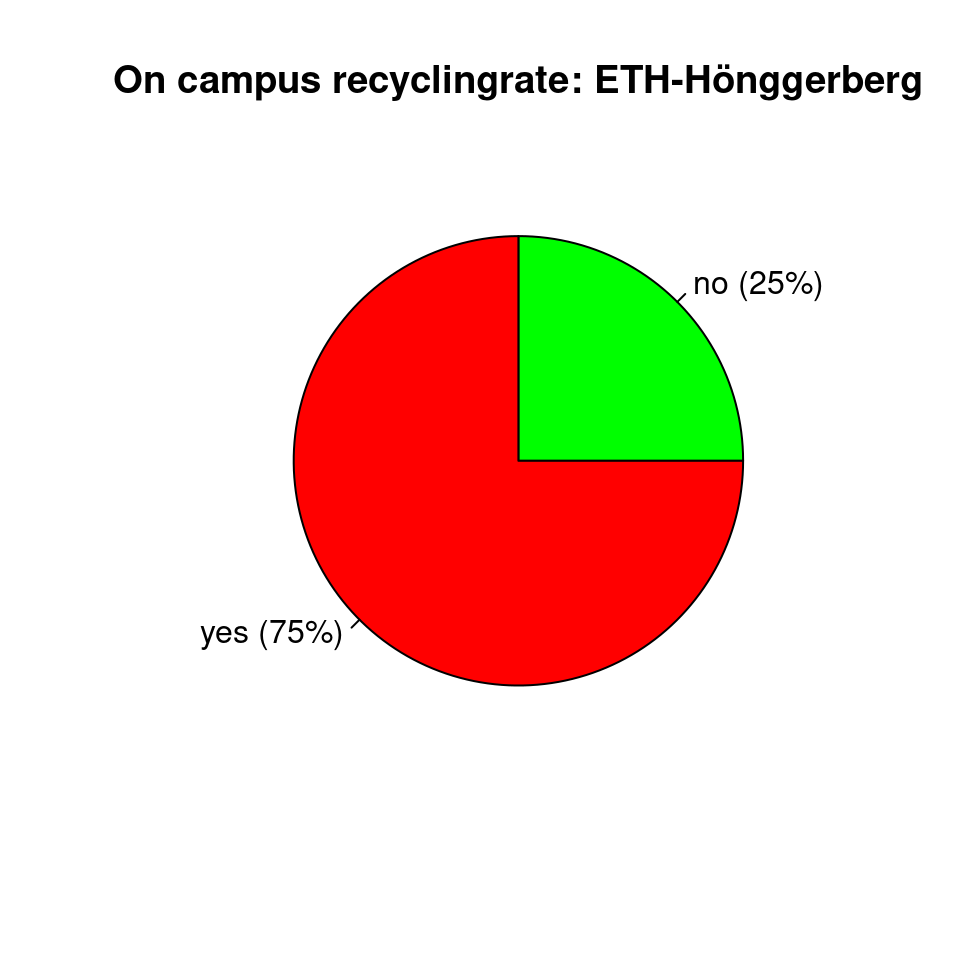
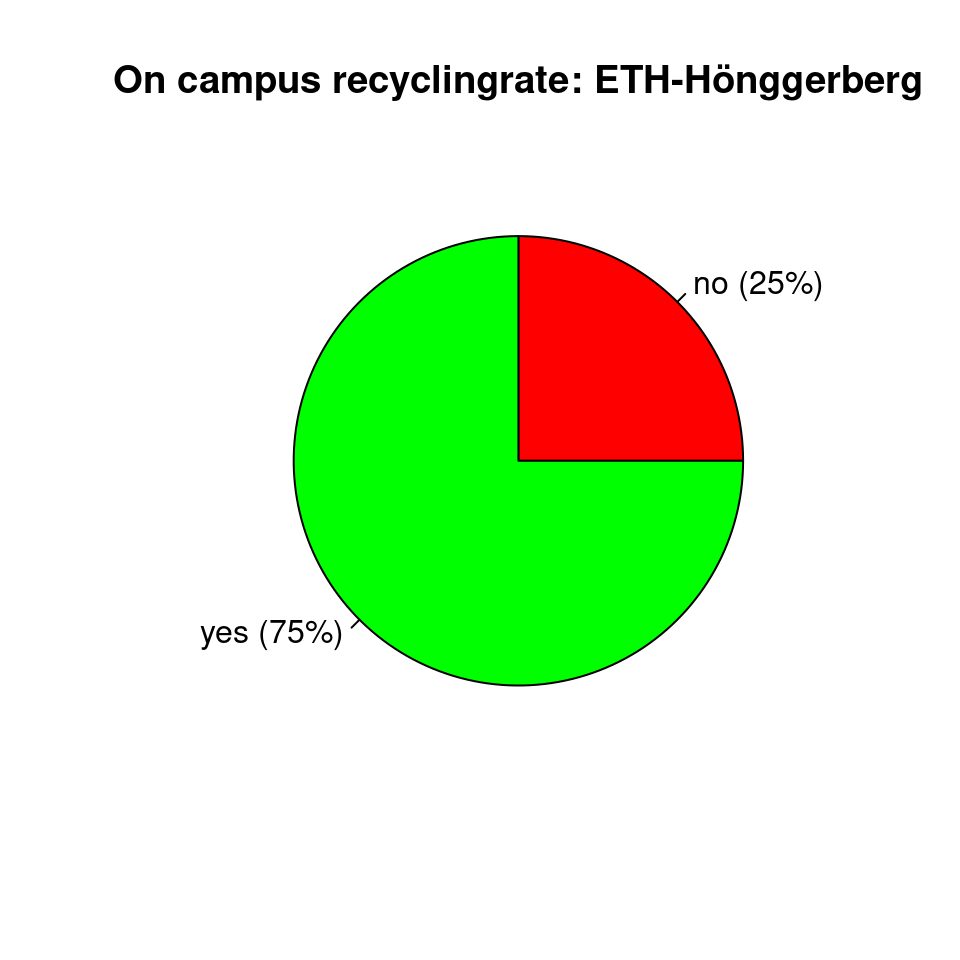
final version

Changed region(s): [[0.2812, 0.25, 0.7812, 0.7188]]

diff --git a/index.html b/index.html
@@ -145,39 +145,22 @@ div.csl-indent {
 </header>
 
 
-<div class="cell">
-<div class="sourceCode cell-code" id="cb1"><pre class="sourceCode r code-with-copy"><code class="sourceCode r"><span id="cb1-1"><a href="#cb1-1" aria-hidden="true" tabindex="-1"></a><span class="fu">library</span>(tidyverse)</span></code><button title="Copy to Clipboard" class="code-copy-button"><i class="bi"></i></button></pre></div>
-<div class="cell-output cell-output-stderr">
-<pre><code>── Attaching core tidyverse packages ──────────────────────── tidyverse 2.0.0 ──
-✔ dplyr     1.1.4     ✔ readr     2.1.5
-✔ forcats   1.0.0     ✔ stringr   1.5.1
-✔ ggplot2   3.4.4     ✔ tibble    3.2.1
-✔ lubridate 1.9.3     ✔ tidyr     1.3.1
-✔ purrr     1.0.2     
-── Conflicts ────────────────────────────────────────── tidyverse_conflicts() ──
-✖ dplyr::filter() masks stats::filter()
-✖ dplyr::lag()    masks stats::lag()
-ℹ Use the conflicted package (&lt;http://conflicted.r-lib.org/&gt;) to force all conflicts to become errors</code></pre>
-</div>
-<div class="sourceCode cell-code" id="cb3"><pre class="sourceCode r code-with-copy"><code class="sourceCode r"><span id="cb3-1"><a href="#cb3-1" aria-hidden="true" tabindex="-1"></a><span class="fu">library</span>(dplyr)</span>
-<span id="cb3-2"><a href="#cb3-2" aria-hidden="true" tabindex="-1"></a><span class="fu">library</span>(gt)</span>
-<span id="cb3-3"><a href="#cb3-3" aria-hidden="true" tabindex="-1"></a><span class="fu">library</span>(ggthemes)</span></code><button title="Copy to Clipboard" class="code-copy-button"><i class="bi"></i></button></pre></div>
-</div>
 <section id="introduction" class="level1">
 <h1>Introduction</h1>
-<p>Switzerland is one of the leading country in terms of waste per capita with an high waste of over 700kg per capita. Despite this big waste production the recyclingrate increased sevenfold over the past 50 years <span class="citation" data-cites="misicka2020how">(<a href="#ref-misicka2020how" role="doc-biblioref">Misicka, 2020</a>)</span></p>
+<p>Switzerland is one of the leading country in terms of waste per capita with a high waste of over 700kg per capita. Despite this big waste production the recyclingrate increased sevenfold over the past 50 years <span class="citation" data-cites="misicka2020how">(<a href="#ref-misicka2020how" role="doc-biblioref">Misicka, 2020</a>)</span></p>
 <p>This study aims to get insights of the recycling behavior of peoples visiting the ETH-campuses. By understanding the extent to which visitors utilize the provided recycling infrastructure and how satisfied they are with the existing infrastructure, we can identify potential areas for improvement. Furthermore, the study seeks to uncover the types of materials commonly recycled on campus, providing valuable insights into the recycling habits and preferences of the campus community.</p>
 </section>
 <section id="methods" class="level1">
 <h1>Methods</h1>
-<p>The data was collected through a Google Forms questionnaire distributed to students. The questionnaire was designed to gather relevant information and was shared with the target student population. The participants were firstly asked of the campus they visited the most and after that got more questions about the beforehand chosen campus. The collected data was then exported from Google Forms for further analysis and processing.</p>
+<p>The data was collected through a Google Forms questionnaire distributed to students. The questionnaire was designed to gather relevant information and was shared with the target student population. The participants were firstly asked of the campus they visit the most and after that got more questions about the beforehand chosen campus. The collected data was then exported from Google Forms for further analysis and processing.</p>
 </section>
 <section id="results" class="level1">
 <h1>Results</h1>
 <p>There was a total of 17 participants in the survey, from which 13 visit mainly the Zentrum campus and 4 visitting the Hönggerberg campus.</p>
+<p>In the following chapters the results of the main questions are described.</p>
 <section id="do-people-recycle-on-campus" class="level2">
 <h2 class="anchored" data-anchor-id="do-people-recycle-on-campus">Do people recycle on campus?</h2>
-<p>The percentage of participants that recycles on campus is high as seen in <a href="#fig-zentrum" class="quarto-xref">Figure&nbsp;1</a> for the ETH-Zentrum campus and in <a href="#fig-hönggerberg" class="quarto-xref">Figure&nbsp;2</a> the ETH-Hönggerberg campus.</p>
+<p>The percentage of participants that recycles on campus is high as seen in <a href="#fig-zentrum" class="quarto-xref">Figure&nbsp;1</a> for the ETH-Zentrum campus and in <a href="#fig-hönggerberg" class="quarto-xref">Figure&nbsp;2</a> for the ETH-Hönggerberg campus.</p>
 <p>The contribution on recycling is slightly higher on the Zentrum-campus.</p>
 <p>The participants who dont recycle were also asked what hinders them on recycling on campus and they given the following statements:</p>
 <ul>
@@ -185,26 +168,26 @@ div.csl-indent {
 <ul>
 <li><p>I only prepare my own food and do not buy a lot of stuff.</p></li>
 <li><p>Bad availability in rooms</p></li>
-</ul></li>
-<li><p>ETH-Hönggerberg:</p>
+</ul>
+<p>ETH-Hönggerberg:</p>
 <ul>
 <li>no statement</li>
 </ul></li>
 </ul>
 <div class="cell">
-<div class="sourceCode cell-code" id="cb4"><pre class="sourceCode r code-with-copy"><code class="sourceCode r"><span id="cb4-1"><a href="#cb4-1" aria-hidden="true" tabindex="-1"></a>survey_processed <span class="ot">&lt;-</span> <span class="fu">read.csv</span>(<span class="st">"data/processed/survey_processed.csv"</span>)</span>
-<span id="cb4-2"><a href="#cb4-2" aria-hidden="true" tabindex="-1"></a></span>
-<span id="cb4-3"><a href="#cb4-3" aria-hidden="true" tabindex="-1"></a>counts_eth_zentrum <span class="ot">&lt;-</span> <span class="fu">table</span>(survey_processed<span class="sc">$</span>recycling_ETH_Zentrum)</span>
-<span id="cb4-4"><a href="#cb4-4" aria-hidden="true" tabindex="-1"></a>percentages_eth_zentrum <span class="ot">&lt;-</span> <span class="fu">round</span>(counts_eth_zentrum<span class="sc">/</span><span class="fu">sum</span>(counts_eth_zentrum)<span class="sc">*</span><span class="dv">100</span>, <span class="dv">1</span>)</span>
-<span id="cb4-5"><a href="#cb4-5" aria-hidden="true" tabindex="-1"></a></span>
-<span id="cb4-6"><a href="#cb4-6" aria-hidden="true" tabindex="-1"></a>counts_eth_hönggerberg <span class="ot">&lt;-</span> <span class="fu">table</span>(survey_processed<span class="sc">$</span>recycling_ETH_Hönggerberg)</span>
-<span id="cb4-7"><a href="#cb4-7" aria-hidden="true" tabindex="-1"></a>percentages_eth_hönggerberg <span class="ot">&lt;-</span> <span class="fu">round</span>(counts_eth_hönggerberg<span class="sc">/</span><span class="fu">sum</span>(counts_eth_hönggerberg)<span class="sc">*</span><span class="dv">100</span>, <span class="dv">1</span>)</span></code><button title="Copy to Clipboard" class="code-copy-button"><i class="bi"></i></button></pre></div>
+<div class="sourceCode cell-code" id="cb1"><pre class="sourceCode r code-with-copy"><code class="sourceCode r"><span id="cb1-1"><a href="#cb1-1" aria-hidden="true" tabindex="-1"></a>survey_processed <span class="ot">&lt;-</span> <span class="fu">read.csv</span>(<span class="st">"data/processed/survey_processed.csv"</span>)</span>
+<span id="cb1-2"><a href="#cb1-2" aria-hidden="true" tabindex="-1"></a></span>
+<span id="cb1-3"><a href="#cb1-3" aria-hidden="true" tabindex="-1"></a>counts_eth_zentrum <span class="ot">&lt;-</span> <span class="fu">table</span>(survey_processed<span class="sc">$</span>recycling_ETH_Zentrum)</span>
+<span id="cb1-4"><a href="#cb1-4" aria-hidden="true" tabindex="-1"></a>percentages_eth_zentrum <span class="ot">&lt;-</span> <span class="fu">round</span>(counts_eth_zentrum<span class="sc">/</span><span class="fu">sum</span>(counts_eth_zentrum)<span class="sc">*</span><span class="dv">100</span>, <span class="dv">1</span>)</span>
+<span id="cb1-5"><a href="#cb1-5" aria-hidden="true" tabindex="-1"></a></span>
+<span id="cb1-6"><a href="#cb1-6" aria-hidden="true" tabindex="-1"></a>counts_eth_hönggerberg <span class="ot">&lt;-</span> <span class="fu">table</span>(survey_processed<span class="sc">$</span>recycling_ETH_Hönggerberg)</span>
+<span id="cb1-7"><a href="#cb1-7" aria-hidden="true" tabindex="-1"></a>percentages_eth_hönggerberg <span class="ot">&lt;-</span> <span class="fu">round</span>(counts_eth_hönggerberg<span class="sc">/</span><span class="fu">sum</span>(counts_eth_hönggerberg)<span class="sc">*</span><span class="dv">100</span>, <span class="dv">1</span>)</span></code><button title="Copy to Clipboard" class="code-copy-button"><i class="bi"></i></button></pre></div>
 </div>
 <div class="cell">
-<div class="sourceCode cell-code" id="cb5"><pre class="sourceCode r code-with-copy"><code class="sourceCode r"><span id="cb5-1"><a href="#cb5-1" aria-hidden="true" tabindex="-1"></a>recyclingrate_eth_zentrum <span class="ot">&lt;-</span> <span class="fu">pie</span>(counts_eth_zentrum, </span>
-<span id="cb5-2"><a href="#cb5-2" aria-hidden="true" tabindex="-1"></a>    <span class="at">labels =</span> <span class="fu">paste0</span>(<span class="fu">names</span>(counts_eth_zentrum), <span class="st">" ("</span>, percentages_eth_zentrum, <span class="st">"%)"</span>),</span>
-<span id="cb5-3"><a href="#cb5-3" aria-hidden="true" tabindex="-1"></a>    <span class="at">col =</span> <span class="fu">c</span>(<span class="st">"green"</span>, <span class="st">"red"</span>),</span>
-<span id="cb5-4"><a href="#cb5-4" aria-hidden="true" tabindex="-1"></a>    <span class="at">main =</span> <span class="st">"On campus recyclingrate: ETH-Zentrum"</span>)</span></code><button title="Copy to Clipboard" class="code-copy-button"><i class="bi"></i></button></pre></div>
+<div class="sourceCode cell-code" id="cb2"><pre class="sourceCode r code-with-copy"><code class="sourceCode r"><span id="cb2-1"><a href="#cb2-1" aria-hidden="true" tabindex="-1"></a>recyclingrate_eth_zentrum <span class="ot">&lt;-</span> <span class="fu">pie</span>(counts_eth_zentrum, </span>
+<span id="cb2-2"><a href="#cb2-2" aria-hidden="true" tabindex="-1"></a>    <span class="at">labels =</span> <span class="fu">paste0</span>(<span class="fu">names</span>(counts_eth_zentrum), <span class="st">" ("</span>, percentages_eth_zentrum, <span class="st">"%)"</span>),</span>
+<span id="cb2-3"><a href="#cb2-3" aria-hidden="true" tabindex="-1"></a>    <span class="at">col =</span> <span class="fu">c</span>(<span class="st">"red"</span>, <span class="st">"green"</span>),</span>
+<span id="cb2-4"><a href="#cb2-4" aria-hidden="true" tabindex="-1"></a>    <span class="at">main =</span> <span class="st">"On campus recyclingrate: ETH-Zentrum"</span>)</span></code><button title="Copy to Clipboard" class="code-copy-button"><i class="bi"></i></button></pre></div>
 <div class="cell-output-display">
 <div id="fig-zentrum" class="quarto-figure quarto-figure-center quarto-float anchored">
 <figure class="quarto-float quarto-float-fig figure">
@@ -219,10 +202,10 @@ Figure&nbsp;1: Percentage of people recycling on the ETH-Zentrum campus
 </div>
 </div>
 <div class="cell">
-<div class="sourceCode cell-code" id="cb6"><pre class="sourceCode r code-with-copy"><code class="sourceCode r"><span id="cb6-1"><a href="#cb6-1" aria-hidden="true" tabindex="-1"></a>recyclingrate_eth_hönggerberg <span class="ot">&lt;-</span> <span class="fu">pie</span>(counts_eth_hönggerberg, </span>
-<span id="cb6-2"><a href="#cb6-2" aria-hidden="true" tabindex="-1"></a>    <span class="at">labels =</span> <span class="fu">paste0</span>(<span class="fu">names</span>(counts_eth_hönggerberg), <span class="st">" ("</span>, percentages_eth_hönggerberg, <span class="st">"%)"</span>),</span>
-<span id="cb6-3"><a href="#cb6-3" aria-hidden="true" tabindex="-1"></a>    <span class="at">col =</span> <span class="fu">c</span>(<span class="st">"green"</span>, <span class="st">"red"</span>),</span>
-<span id="cb6-4"><a href="#cb6-4" aria-hidden="true" tabindex="-1"></a>    <span class="at">main =</span> <span class="st">"On campus recyclingrate: ETH-Hönggerberg"</span>) </span></code><button title="Copy to Clipboard" class="code-copy-button"><i class="bi"></i></button></pre></div>
+<div class="sourceCode cell-code" id="cb3"><pre class="sourceCode r code-with-copy"><code class="sourceCode r"><span id="cb3-1"><a href="#cb3-1" aria-hidden="true" tabindex="-1"></a>recyclingrate_eth_hönggerberg <span class="ot">&lt;-</span> <span class="fu">pie</span>(counts_eth_hönggerberg, </span>
+<span id="cb3-2"><a href="#cb3-2" aria-hidden="true" tabindex="-1"></a>    <span class="at">labels =</span> <span class="fu">paste0</span>(<span class="fu">names</span>(counts_eth_hönggerberg), <span class="st">" ("</span>, percentages_eth_hönggerberg, <span class="st">"%)"</span>),</span>
+<span id="cb3-3"><a href="#cb3-3" aria-hidden="true" tabindex="-1"></a>    <span class="at">col =</span> <span class="fu">c</span>(<span class="st">"red"</span>, <span class="st">"green"</span>),</span>
+<span id="cb3-4"><a href="#cb3-4" aria-hidden="true" tabindex="-1"></a>    <span class="at">main =</span> <span class="st">"On campus recyclingrate: ETH-Hönggerberg"</span>) </span></code><button title="Copy to Clipboard" class="code-copy-button"><i class="bi"></i></button></pre></div>
 <div class="cell-output-display">
 <div id="fig-hönggerberg" class="quarto-figure quarto-figure-center quarto-float anchored">
 <figure class="quarto-float quarto-float-fig figure">
@@ -241,13 +224,13 @@ Figure&nbsp;2: Percentage of people recycling on the ETH-Hönggerberg campus
 <h2 class="anchored" data-anchor-id="what-do-they-recycle">What do they recycle?</h2>
 <p>The participants recycle various materials on campus, namely PET, cardboard, paper, glass, and aluminum. In <a href="#fig-material" class="quarto-xref">Figure&nbsp;3</a> one can see the most used recycled material which is ALU.</p>
 <div class="cell">
-<div class="sourceCode cell-code" id="cb7"><pre class="sourceCode r code-with-copy"><code class="sourceCode r"><span id="cb7-1"><a href="#cb7-1" aria-hidden="true" tabindex="-1"></a>most_recycled_Zentrum <span class="ot">&lt;-</span> <span class="fu">read.csv</span>(<span class="st">"data/processed/most_recycled_Zentrum"</span>)</span>
-<span id="cb7-2"><a href="#cb7-2" aria-hidden="true" tabindex="-1"></a></span>
-<span id="cb7-3"><a href="#cb7-3" aria-hidden="true" tabindex="-1"></a> <span class="fu">ggplot</span>(<span class="at">data =</span> most_recycled_Zentrum,</span>
-<span id="cb7-4"><a href="#cb7-4" aria-hidden="true" tabindex="-1"></a>       <span class="at">mapping =</span> <span class="fu">aes</span>(<span class="at">x =</span> most_recycled_material_ETH_Zentrum)) <span class="sc">+</span></span>
-<span id="cb7-5"><a href="#cb7-5" aria-hidden="true" tabindex="-1"></a>  <span class="fu">geom_bar</span>() <span class="sc">+</span></span>
-<span id="cb7-6"><a href="#cb7-6" aria-hidden="true" tabindex="-1"></a>   <span class="fu">labs</span>(<span class="at">title=</span> <span class="st">"What material is mostly recycled on the ETH-Zentrum campus?"</span>, <span class="at">x =</span> <span class="st">"material"</span>, <span class="at">y =</span> <span class="st">"count"</span>) <span class="sc">+</span></span>
-<span id="cb7-7"><a href="#cb7-7" aria-hidden="true" tabindex="-1"></a>  <span class="fu">scale_color_colorblind</span>()</span></code><button title="Copy to Clipboard" class="code-copy-button"><i class="bi"></i></button></pre></div>
+<div class="sourceCode cell-code" id="cb4"><pre class="sourceCode r code-with-copy"><code class="sourceCode r"><span id="cb4-1"><a href="#cb4-1" aria-hidden="true" tabindex="-1"></a>most_recycled_Zentrum <span class="ot">&lt;-</span> <span class="fu">read.csv</span>(<span class="st">"data/processed/most_recycled_Zentrum"</span>)</span>
+<span id="cb4-2"><a href="#cb4-2" aria-hidden="true" tabindex="-1"></a></span>
+<span id="cb4-3"><a href="#cb4-3" aria-hidden="true" tabindex="-1"></a> <span class="fu">ggplot</span>(<span class="at">data =</span> most_recycled_Zentrum,</span>
+<span id="cb4-4"><a href="#cb4-4" aria-hidden="true" tabindex="-1"></a>       <span class="at">mapping =</span> <span class="fu">aes</span>(<span class="at">x =</span> most_recycled_material_ETH_Zentrum)) <span class="sc">+</span></span>
+<span id="cb4-5"><a href="#cb4-5" aria-hidden="true" tabindex="-1"></a>  <span class="fu">geom_bar</span>() <span class="sc">+</span></span>
+<span id="cb4-6"><a href="#cb4-6" aria-hidden="true" tabindex="-1"></a>   <span class="fu">labs</span>(<span class="at">title=</span> <span class="st">"What material is mostly recycled on the ETH-Zentrum campus?"</span>, <span class="at">x =</span> <span class="st">"material"</span>, <span class="at">y =</span> <span class="st">"count"</span>) <span class="sc">+</span></span>
+<span id="cb4-7"><a href="#cb4-7" aria-hidden="true" tabindex="-1"></a>  <span class="fu">scale_color_colorblind</span>()</span></code><button title="Copy to Clipboard" class="code-copy-button"><i class="bi"></i></button></pre></div>
 <div class="cell-output-display">
 <div id="fig-material" class="quarto-figure quarto-figure-center quarto-float anchored">
 <figure class="quarto-float quarto-float-fig figure">
@@ -264,33 +247,33 @@ Figure&nbsp;3: most recycled materials on the ETH-Zentrum campus
 </section>
 <section id="how-happy-are-the-people-on-campus-about-the-given-infrastructure" class="level2">
 <h2 class="anchored" data-anchor-id="how-happy-are-the-people-on-campus-about-the-given-infrastructure">How happy are the people on campus about the given infrastructure?</h2>
-<p>In the end of the survey the participants were asked to give a rating from 1-10 on how happy they are with the given infrastructure. As seen in <a href="#tbl-satisfaction" class="quarto-xref">Table&nbsp;1</a> the participants are quite happy with the given infrastructure. The infrastructure on Höngerberg was rated a bit higher but also had not to much participants for a reliable conclusion.</p>
+<p>In the end of the survey the participants were asked to give a rating from 1-10 on how happy they are with the given infrastructure. As seen in <a href="#tbl-satisfaction" class="quarto-xref">Table&nbsp;1</a> the participants are quite happy with the given infrastructure. The infrastructure on Hönggerberg was rated a bit higher but also had not to much participants for a reliable conclusion.</p>
 <div class="cell">
-<div class="sourceCode cell-code" id="cb8"><pre class="sourceCode r code-with-copy"><code class="sourceCode r"><span id="cb8-1"><a href="#cb8-1" aria-hidden="true" tabindex="-1"></a>survey_processed <span class="ot">&lt;-</span> <span class="fu">read.csv</span>(<span class="st">"data/processed/survey_processed.csv"</span>)</span>
-<span id="cb8-2"><a href="#cb8-2" aria-hidden="true" tabindex="-1"></a></span>
-<span id="cb8-3"><a href="#cb8-3" aria-hidden="true" tabindex="-1"></a>mean_satisfaction_zentrum <span class="ot">&lt;-</span>survey_processed <span class="sc">|&gt;</span> </span>
-<span id="cb8-4"><a href="#cb8-4" aria-hidden="true" tabindex="-1"></a>  <span class="fu">filter</span>(<span class="sc">!</span><span class="fu">is.na</span>(satisfaction_ETH_Zentrum))  <span class="sc">|&gt;</span> </span>
-<span id="cb8-5"><a href="#cb8-5" aria-hidden="true" tabindex="-1"></a>    <span class="fu">group_by</span>(campus) <span class="sc">|&gt;</span> </span>
-<span id="cb8-6"><a href="#cb8-6" aria-hidden="true" tabindex="-1"></a>    <span class="fu">summarise</span>(</span>
-<span id="cb8-7"><a href="#cb8-7" aria-hidden="true" tabindex="-1"></a>        <span class="at">count =</span> <span class="fu">n</span>(),</span>
-<span id="cb8-8"><a href="#cb8-8" aria-hidden="true" tabindex="-1"></a>        <span class="at">mean =</span> <span class="fu">mean</span>(satisfaction_ETH_Zentrum)</span>
-<span id="cb8-9"><a href="#cb8-9" aria-hidden="true" tabindex="-1"></a>        )</span>
-<span id="cb8-10"><a href="#cb8-10" aria-hidden="true" tabindex="-1"></a>       </span>
-<span id="cb8-11"><a href="#cb8-11" aria-hidden="true" tabindex="-1"></a>mean_satisfaction_hönggerberg <span class="ot">&lt;-</span>survey_processed <span class="sc">|&gt;</span> </span>
-<span id="cb8-12"><a href="#cb8-12" aria-hidden="true" tabindex="-1"></a>  <span class="fu">filter</span>(<span class="sc">!</span><span class="fu">is.na</span>(satisfaction_ETH_Hönggerberg))  <span class="sc">|&gt;</span> </span>
-<span id="cb8-13"><a href="#cb8-13" aria-hidden="true" tabindex="-1"></a>    <span class="fu">group_by</span>(campus) <span class="sc">|&gt;</span> </span>
-<span id="cb8-14"><a href="#cb8-14" aria-hidden="true" tabindex="-1"></a>    <span class="fu">summarise</span>(</span>
-<span id="cb8-15"><a href="#cb8-15" aria-hidden="true" tabindex="-1"></a>        <span class="at">count =</span> <span class="fu">n</span>(),</span>
-<span id="cb8-16"><a href="#cb8-16" aria-hidden="true" tabindex="-1"></a>        <span class="at">mean =</span> <span class="fu">mean</span>(satisfaction_ETH_Hönggerberg)</span>
-<span id="cb8-17"><a href="#cb8-17" aria-hidden="true" tabindex="-1"></a>        )</span>
-<span id="cb8-18"><a href="#cb8-18" aria-hidden="true" tabindex="-1"></a></span>
-<span id="cb8-19"><a href="#cb8-19" aria-hidden="true" tabindex="-1"></a></span>
-<span id="cb8-20"><a href="#cb8-20" aria-hidden="true" tabindex="-1"></a>satisfaction <span class="ot">&lt;-</span> <span class="fu">bind_rows</span>(mean_satisfaction_hönggerberg,mean_satisfaction_zentrum)</span>
-<span id="cb8-21"><a href="#cb8-21" aria-hidden="true" tabindex="-1"></a></span>
-<span id="cb8-22"><a href="#cb8-22" aria-hidden="true" tabindex="-1"></a></span>
-<span id="cb8-23"><a href="#cb8-23" aria-hidden="true" tabindex="-1"></a>satisfaction <span class="sc">|&gt;</span> </span>
-<span id="cb8-24"><a href="#cb8-24" aria-hidden="true" tabindex="-1"></a>knitr<span class="sc">::</span><span class="fu">kable</span>(<span class="at">digits =</span> <span class="dv">0</span>)</span>
-<span id="cb8-25"><a href="#cb8-25" aria-hidden="true" tabindex="-1"></a><span class="fu">write_csv</span>(satisfaction, <span class="st">"data/final/tbl-satisfaction"</span>)</span></code><button title="Copy to Clipboard" class="code-copy-button"><i class="bi"></i></button></pre></div>
+<div class="sourceCode cell-code" id="cb5"><pre class="sourceCode r code-with-copy"><code class="sourceCode r"><span id="cb5-1"><a href="#cb5-1" aria-hidden="true" tabindex="-1"></a>survey_processed <span class="ot">&lt;-</span> <span class="fu">read.csv</span>(<span class="st">"data/processed/survey_processed.csv"</span>)</span>
+<span id="cb5-2"><a href="#cb5-2" aria-hidden="true" tabindex="-1"></a></span>
+<span id="cb5-3"><a href="#cb5-3" aria-hidden="true" tabindex="-1"></a>mean_satisfaction_zentrum <span class="ot">&lt;-</span>survey_processed <span class="sc">|&gt;</span> </span>
+<span id="cb5-4"><a href="#cb5-4" aria-hidden="true" tabindex="-1"></a>  <span class="fu">filter</span>(<span class="sc">!</span><span class="fu">is.na</span>(satisfaction_ETH_Zentrum))  <span class="sc">|&gt;</span> </span>
+<span id="cb5-5"><a href="#cb5-5" aria-hidden="true" tabindex="-1"></a>    <span class="fu">group_by</span>(campus) <span class="sc">|&gt;</span> </span>
+<span id="cb5-6"><a href="#cb5-6" aria-hidden="true" tabindex="-1"></a>    <span class="fu">summarise</span>(</span>
+<span id="cb5-7"><a href="#cb5-7" aria-hidden="true" tabindex="-1"></a>        <span class="at">count=</span> <span class="fu">n</span>(),</span>
+<span id="cb5-8"><a href="#cb5-8" aria-hidden="true" tabindex="-1"></a>        <span class="at">mean =</span> <span class="fu">mean</span>(satisfaction_ETH_Zentrum)</span>
+<span id="cb5-9"><a href="#cb5-9" aria-hidden="true" tabindex="-1"></a>        )</span>
+<span id="cb5-10"><a href="#cb5-10" aria-hidden="true" tabindex="-1"></a>       </span>
+<span id="cb5-11"><a href="#cb5-11" aria-hidden="true" tabindex="-1"></a>mean_satisfaction_hönggerberg <span class="ot">&lt;-</span>survey_processed <span class="sc">|&gt;</span> </span>
+<span id="cb5-12"><a href="#cb5-12" aria-hidden="true" tabindex="-1"></a>  <span class="fu">filter</span>(<span class="sc">!</span><span class="fu">is.na</span>(satisfaction_ETH_Hönggerberg))  <span class="sc">|&gt;</span> </span>
+<span id="cb5-13"><a href="#cb5-13" aria-hidden="true" tabindex="-1"></a>    <span class="fu">group_by</span>(campus) <span class="sc">|&gt;</span> </span>
+<span id="cb5-14"><a href="#cb5-14" aria-hidden="true" tabindex="-1"></a>    <span class="fu">summarise</span>(</span>
+<span id="cb5-15"><a href="#cb5-15" aria-hidden="true" tabindex="-1"></a>        <span class="at">count =</span> <span class="fu">n</span>(),</span>
+<span id="cb5-16"><a href="#cb5-16" aria-hidden="true" tabindex="-1"></a>        <span class="at">mean =</span> <span class="fu">mean</span>(satisfaction_ETH_Hönggerberg)</span>
+<span id="cb5-17"><a href="#cb5-17" aria-hidden="true" tabindex="-1"></a>        )</span>
+<span id="cb5-18"><a href="#cb5-18" aria-hidden="true" tabindex="-1"></a></span>
+<span id="cb5-19"><a href="#cb5-19" aria-hidden="true" tabindex="-1"></a></span>
+<span id="cb5-20"><a href="#cb5-20" aria-hidden="true" tabindex="-1"></a>satisfaction <span class="ot">&lt;-</span> <span class="fu">bind_rows</span>(mean_satisfaction_hönggerberg,mean_satisfaction_zentrum)</span>
+<span id="cb5-21"><a href="#cb5-21" aria-hidden="true" tabindex="-1"></a></span>
+<span id="cb5-22"><a href="#cb5-22" aria-hidden="true" tabindex="-1"></a></span>
+<span id="cb5-23"><a href="#cb5-23" aria-hidden="true" tabindex="-1"></a>satisfaction <span class="sc">|&gt;</span> </span>
+<span id="cb5-24"><a href="#cb5-24" aria-hidden="true" tabindex="-1"></a>knitr<span class="sc">::</span><span class="fu">kable</span>(<span class="at">digits =</span> <span class="dv">0</span>)</span>
+<span id="cb5-25"><a href="#cb5-25" aria-hidden="true" tabindex="-1"></a><span class="fu">write_csv</span>(satisfaction, <span class="st">"data/final/tbl-satisfaction"</span>)</span></code><button title="Copy to Clipboard" class="code-copy-button"><i class="bi"></i></button></pre></div>
 <div id="tbl-satisfaction" class="cell quarto-float anchored">
 <figure class="quarto-float quarto-float-tbl figure">
 <figcaption class="quarto-float-caption-top quarto-float-caption quarto-float-tbl" id="tbl-satisfaction-caption-0ceaefa1-69ba-4598-a22c-09a6ac19f8ca">
@@ -350,7 +333,7 @@ Table&nbsp;1: Mean values of the satisfaction level from 1-10 of the different c
 </ul></li>
 </ul>
 <p>Even if the participants are in general happy with the given infrastructure, they still wish that the infrastructure is expanded with more bins and more awareness and visability of what is possible to recycle. The lack of visibility was also was also the main suggestion for improvement from <span class="citation" data-cites="kelly2006universityb">Kelly et al. (<a href="#ref-kelly2006universityb" role="doc-biblioref">2006</a>)</span></p>
-<p><span class="citation" data-cites="10">(<a href="#ref-10" role="doc-biblioref">Save, n.d.</a>)</span>cit also describes a 10 steps Method for a improvement on campus recycling as following:</p>
+<p><span class="citation" data-cites="10">Save (<a href="#ref-10" role="doc-biblioref">n.d.</a>)</span> also describes a 10 steps Method for a improvement on campus recycling as following:</p>
 <ol type="1">
 <li><p>Determine your benchmark by doing a waste audit.</p></li>
 <li><p>Standardize your program – use the same bins, same graphics and same colors across campus.</p></li>

diff --git a/data/processed/README.md b/data/processed/README.md
@@ -2,61 +2,36 @@
 
 ## General information
 
-1.  Title of Dataset:  
+1.  Title of Dataset: survey_processed 
 
-2.  Author Information
 
 **Author A**
 
-- First name:
-- Surname:
-- ORCID iD
-- Email:
+- First name: Michael
+- Surname: Birrer
+- ORCID iD: 0009-0005-9815-0692
+- Email: birrermi@ethz.ch
 
-**Author B**
 
-- First name:
-- Surname:
-- ORCID iD
-- Email:
+3.  Date of data collection (16.05.2024 - 03.06.2024)):
 
-etc.
+4.  Geographic location of data collection: Switzerland
 
-3.  Date of data collection (single date, range, approximate date):
-
-4.  Geographic location of data collection:
-
-5.  Information about funding sources that supported the collection of
-    the data: 
 
 ## Sharing / access information
 
 1.  Licenses/restrictions placed on the data:  
 
-Recommended: This work is licensed under the Creative Commons Attribution 4.0 International license (CC-BY-4.0).
+This work is licensed under the Creative Commons Attribution 4.0 International license (CC-BY-4.0).
 
-2.  Links to publications that cite or use the data: 
 
-3.  Links to other publicly accessible locations of the data: -
-
-4.  Links/relationships to ancillary data sets: 
-
-5.  Was data derived from another source? 
 
 ## Methodological information
 
 1.  Description of methods used for collection/generation of data:
 
+The data was collected through a Google Forms questionnaire distributed to students. The questionnaire was designed to gather relevant information and was shared with the target student population. The participants were firstly asked of the campus they visited the most and after that got more questions about the beforehand chosen campus. 
+
 2.  Methods for processing the data:
 
-3.  Instrument- or software-specific information needed to interpret the
-    data: 
-
-4.  Standards and calibration information, if appropriate: -
-
-5.  Environmental/experimental conditions: 
-
-6.  Describe any quality-assurance procedures performed on the data: 
-
-7.  People involved with sample collection, processing, analysis and/or
-    submission:
+The collected data was exported from Google Forms to for further analysis and processing with R.
